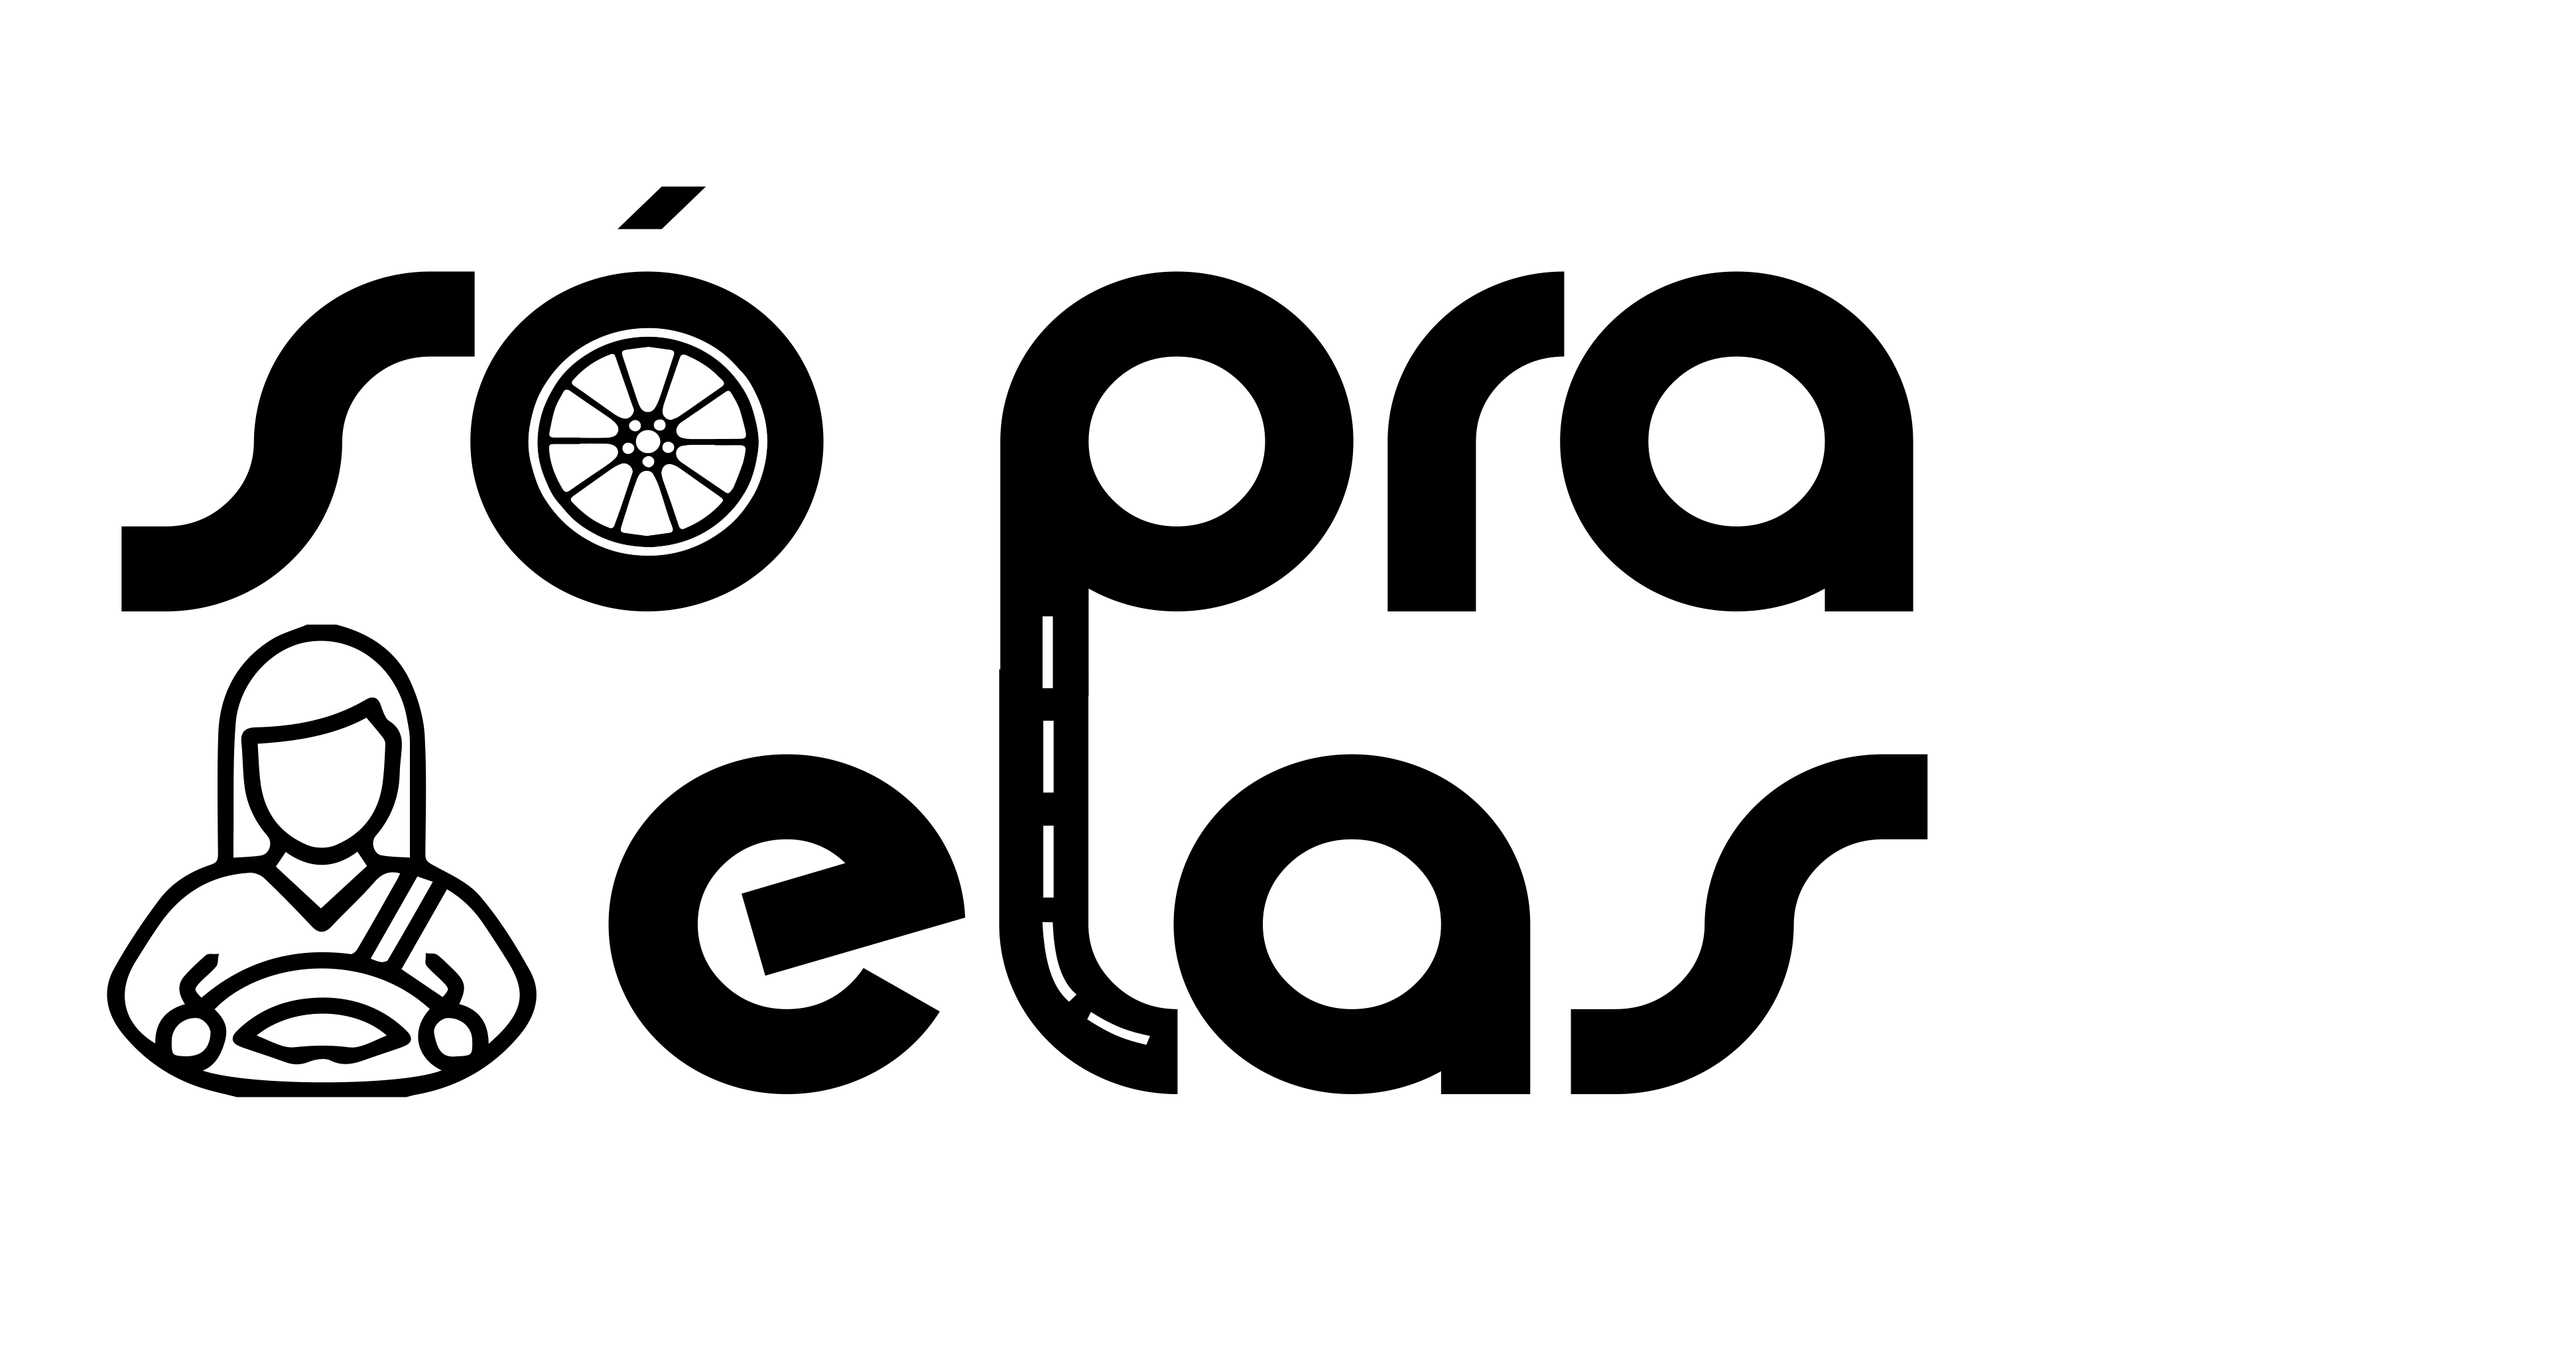
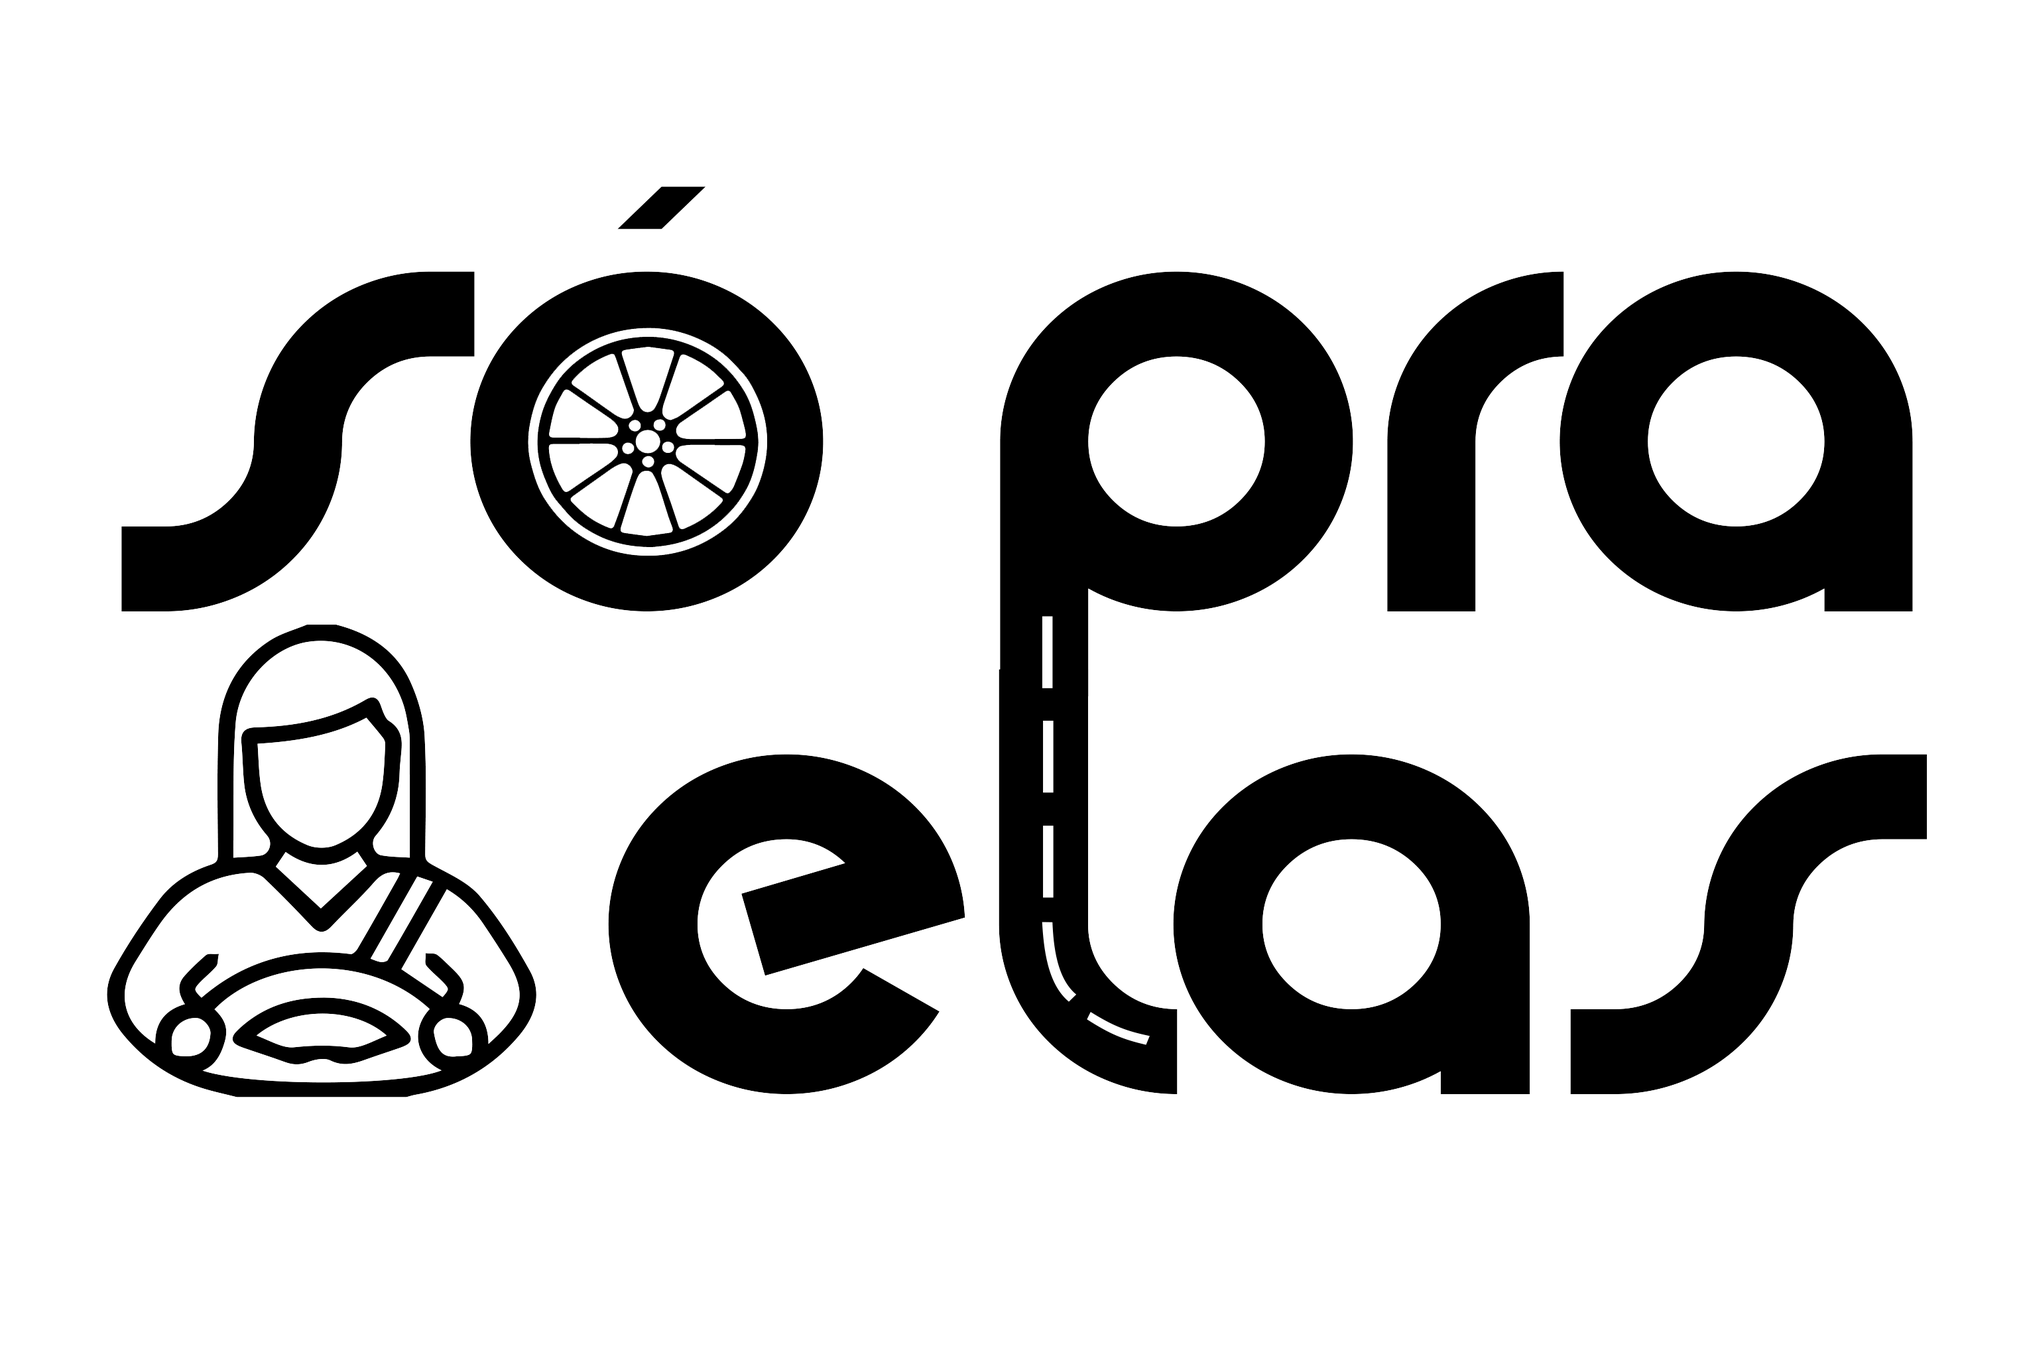
kk

Changed region(s): [[0.0312, 0.1243, 0.9672, 0.8078]]

diff --git a/startingpage.html b/startingpage.html
@@ -9,7 +9,7 @@
 </head>
 <body>
     <div class="containerinicio">
-        <img src="external-files/sopelas.png" alt="logo SPE" height="300px">
+        <img src="external-files/sopelas.png" alt="logo SPE" height="380px" id="logomarca">
     </div>
     <script src="functions.js"></script>
 </body>

diff --git a/style.css b/style.css
@@ -5,5 +5,13 @@ html, body {
 }
 
 body{
-    
+    background: linear-gradient(#F4A5AE, #F6F7EB);
+}
+
+#logomarca{
+  filter: drop-shadow(3px 5px 3px rgba(0, 0, 0, 0.3)); 
+  display: block;
+  margin-left: auto;
+  margin-right: auto;
+  margin-top: 100px;
 }
